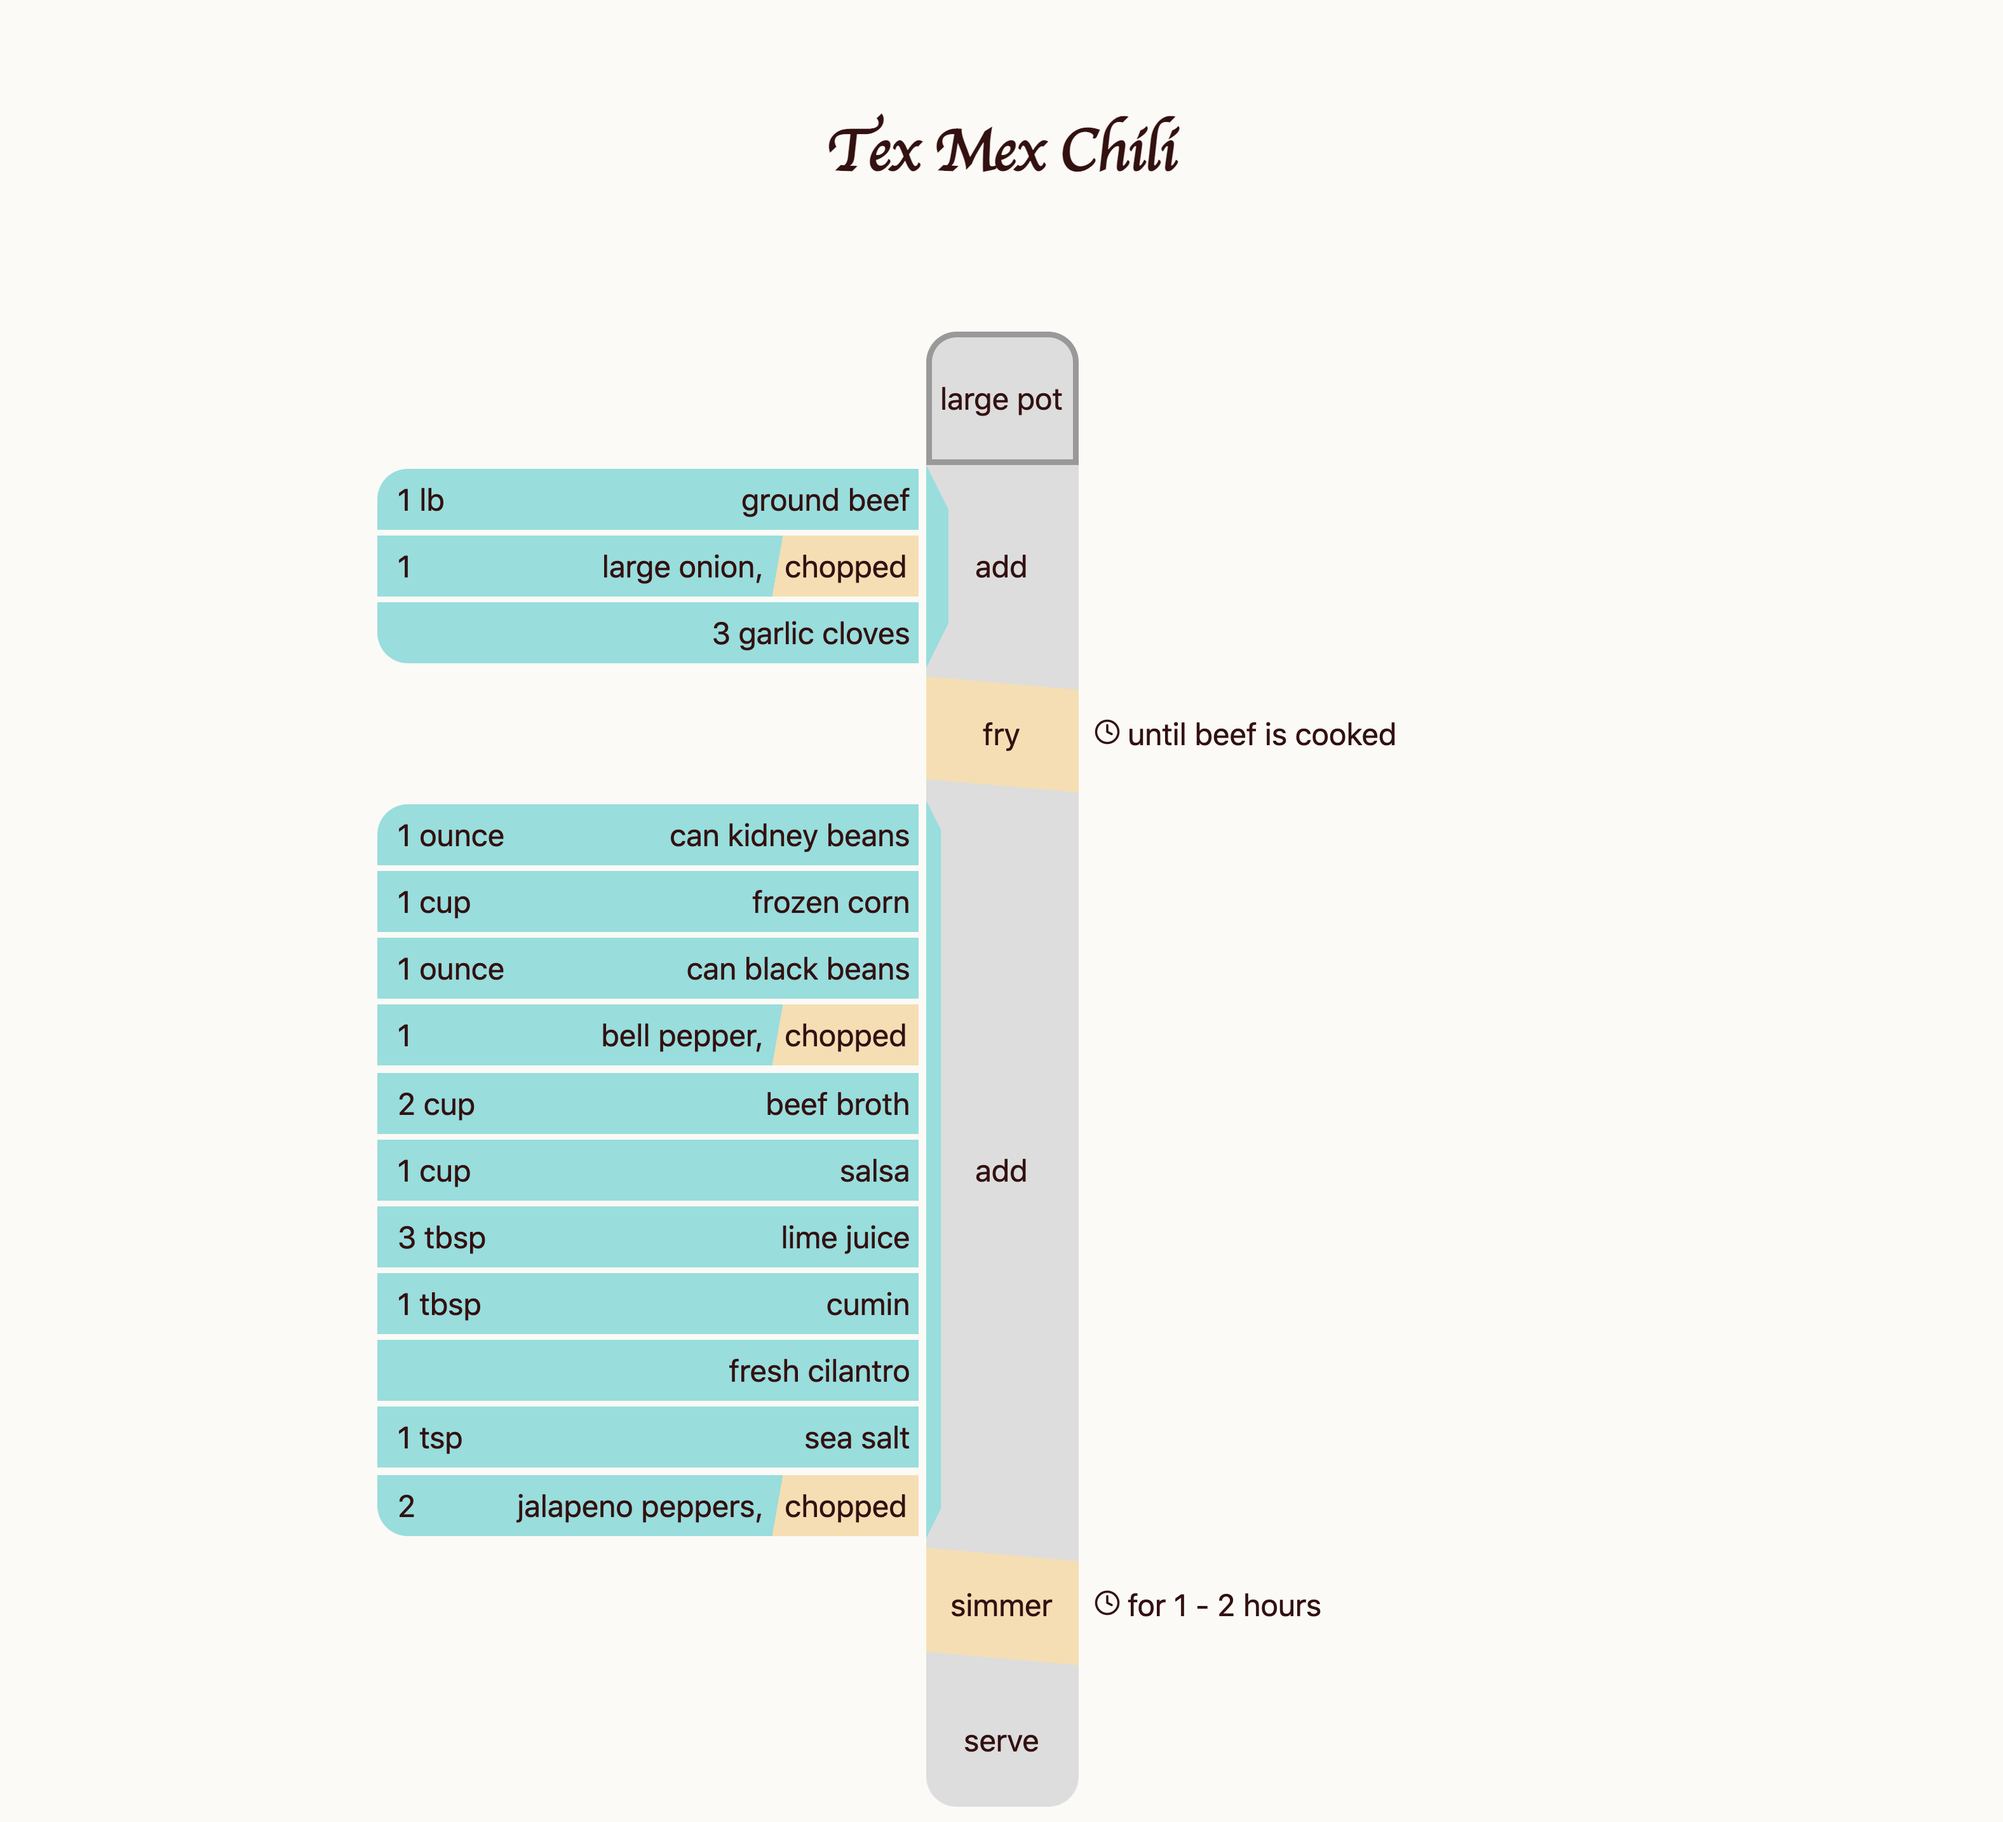
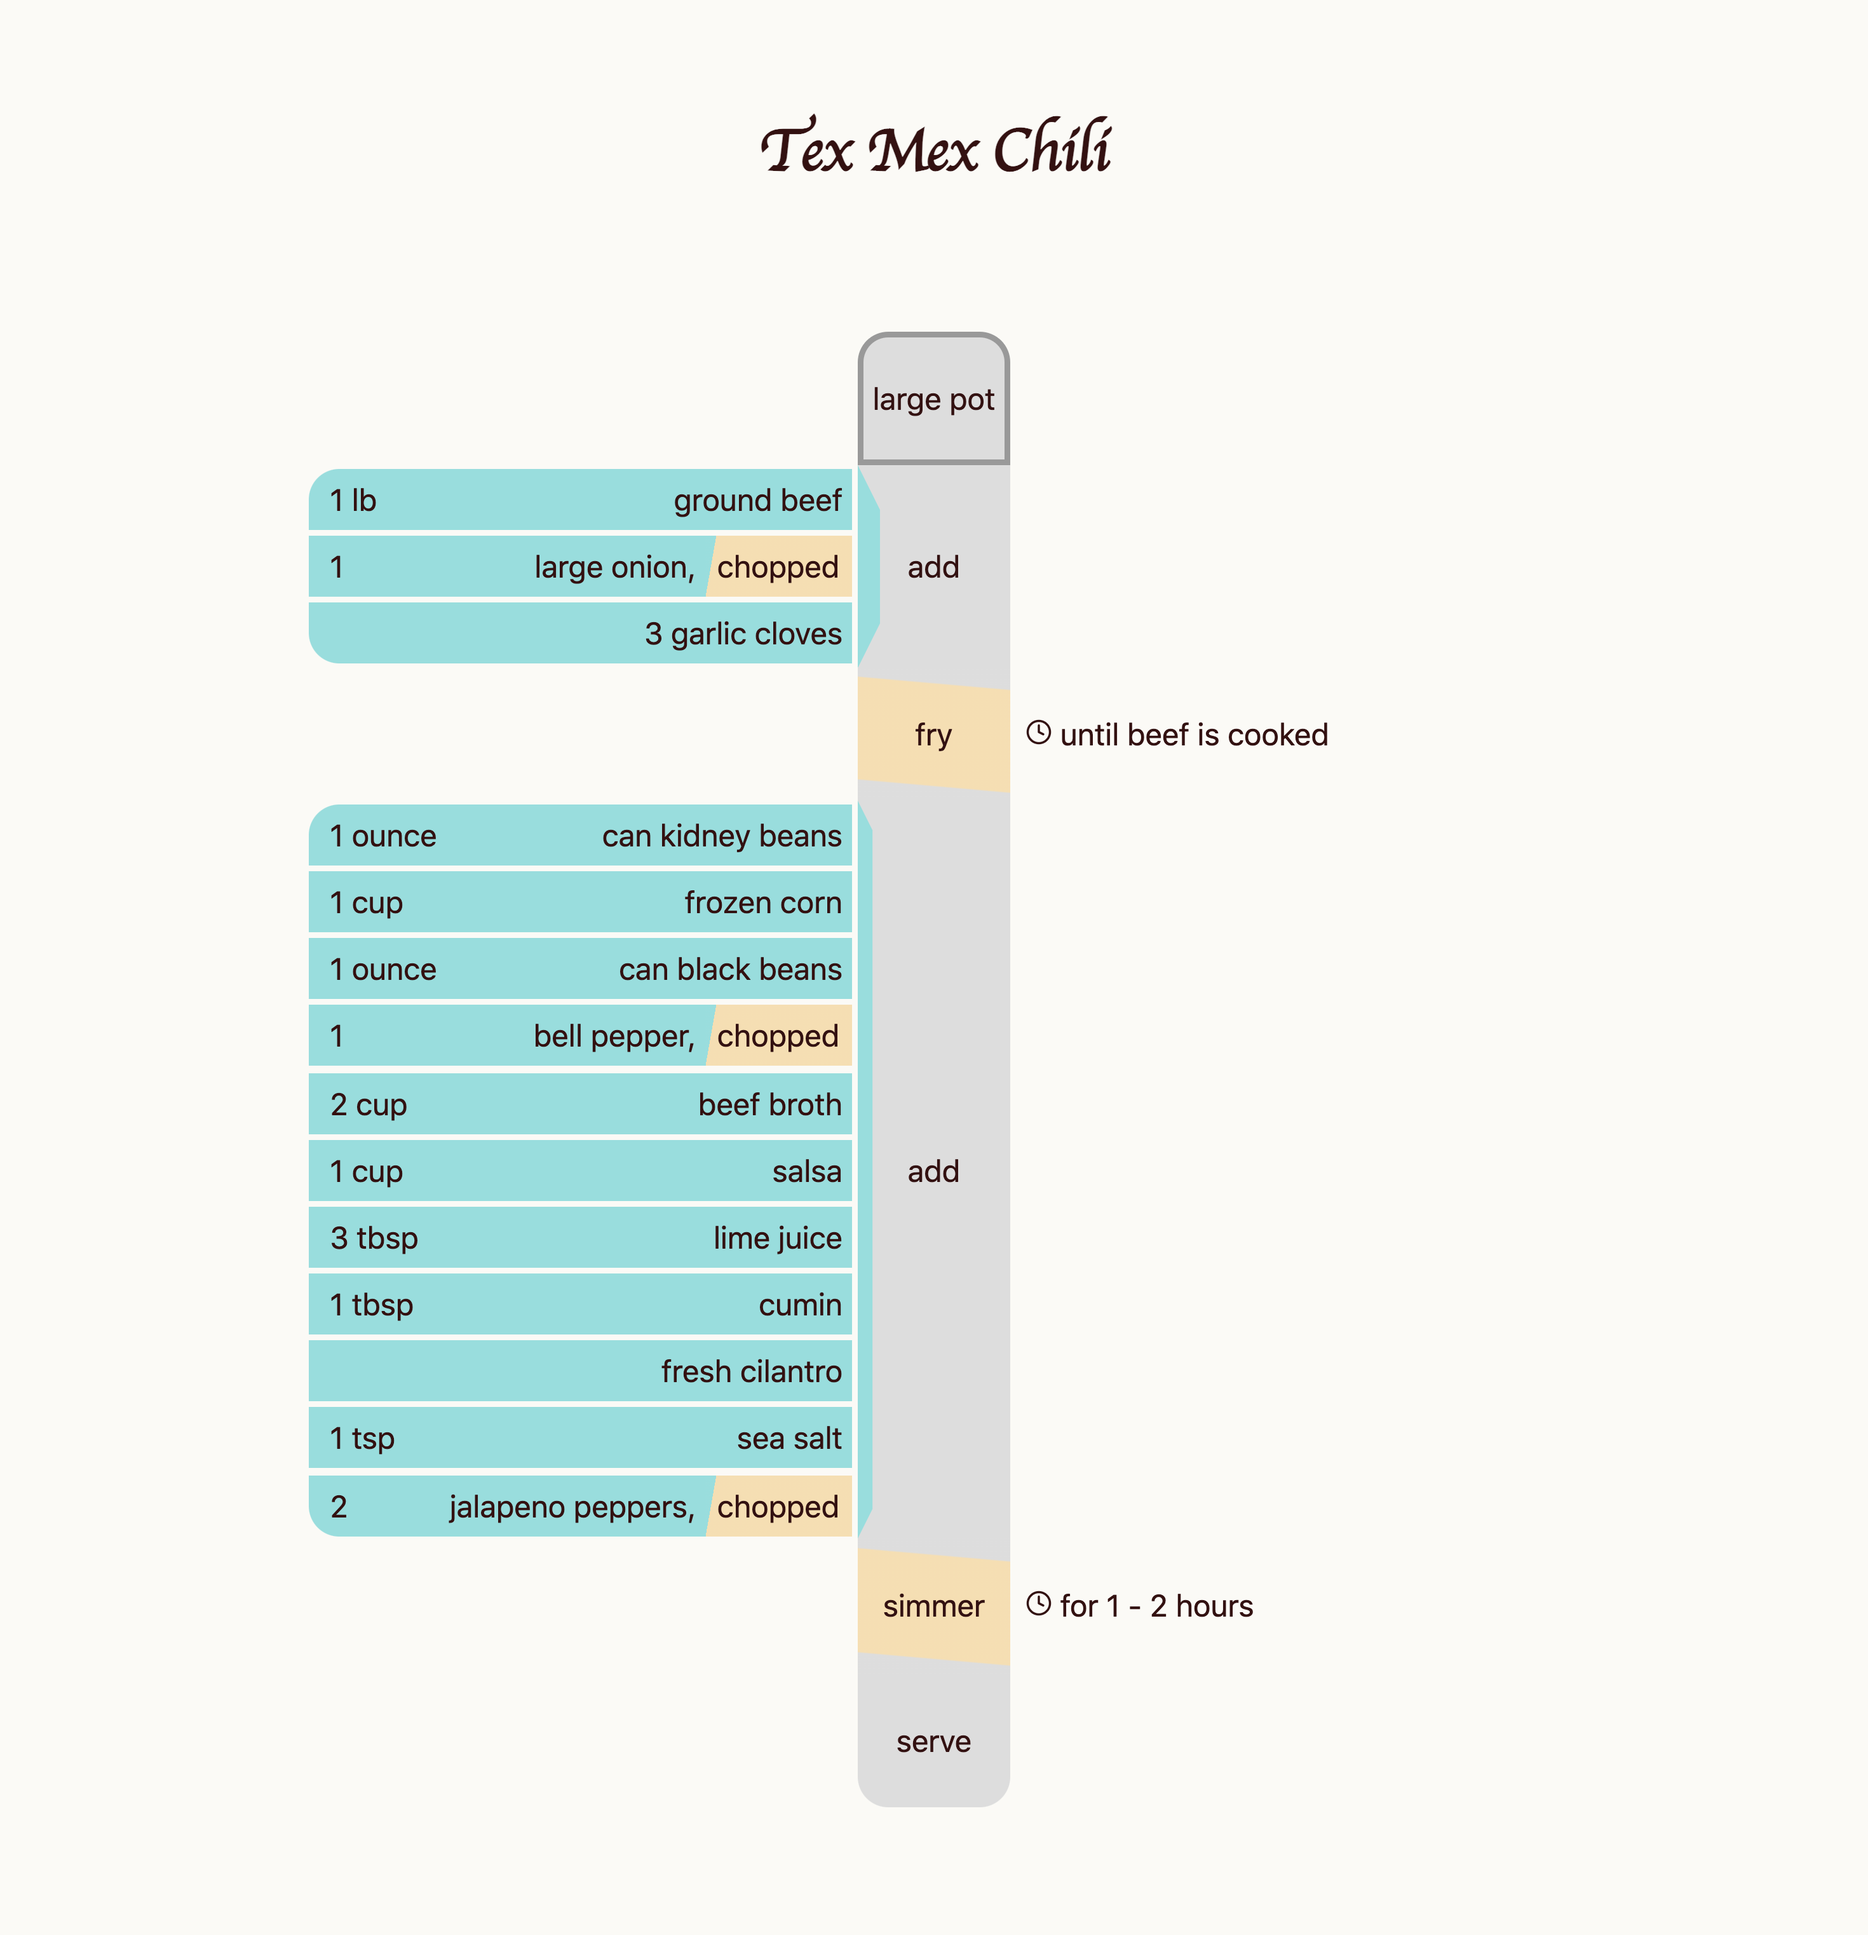
Add various formatting tweaks

diff --git a/infographic_recipe_concept/index.html b/infographic_recipe_concept/index.html
@@ -12,7 +12,7 @@ image: /infographic_recipe_concept/preview.png
 
     <p>How about an infographic-like presentation? Like this:</p>
 
-    <div style="text-align: center; margin:1em">
+    <div style="text-align: center; margin:1em 0em">
       <img src="/infographic_recipe_concept/celery_root_salad.png" width="100%" />
     </div>
 
@@ -34,12 +34,12 @@ image: /infographic_recipe_concept/preview.png
 
     <p>In the meantime, take a look at some more examples:</p>
 
-    <div style="text-align: center; margin:1em">
+    <div style="text-align: center; margin:1em 0em">
         <img src="/infographic_recipe_concept/cheese_scones.png" width="100%" />
-      </div>
+    </div>
   
-      <div style="text-align: center; margin:1em">
+    <div style="text-align: center; margin:1em 0em">
         <img src="/infographic_recipe_concept/tex_mex_chili.png" width="100%" />
-      </div>
+    </div>
   
   </div>

diff --git a/_layouts/default.html b/_layouts/default.html
@@ -9,7 +9,7 @@
     {% seo %}
   </head>
   <body style="font-size: 16px">
-    <div class="wrapper" style="margin-top:4em">
+    <div class="wrapper" style="margin-top:4em; max-width:850px">
       {{ content }}
     </div>
     <footer class="sticky">
